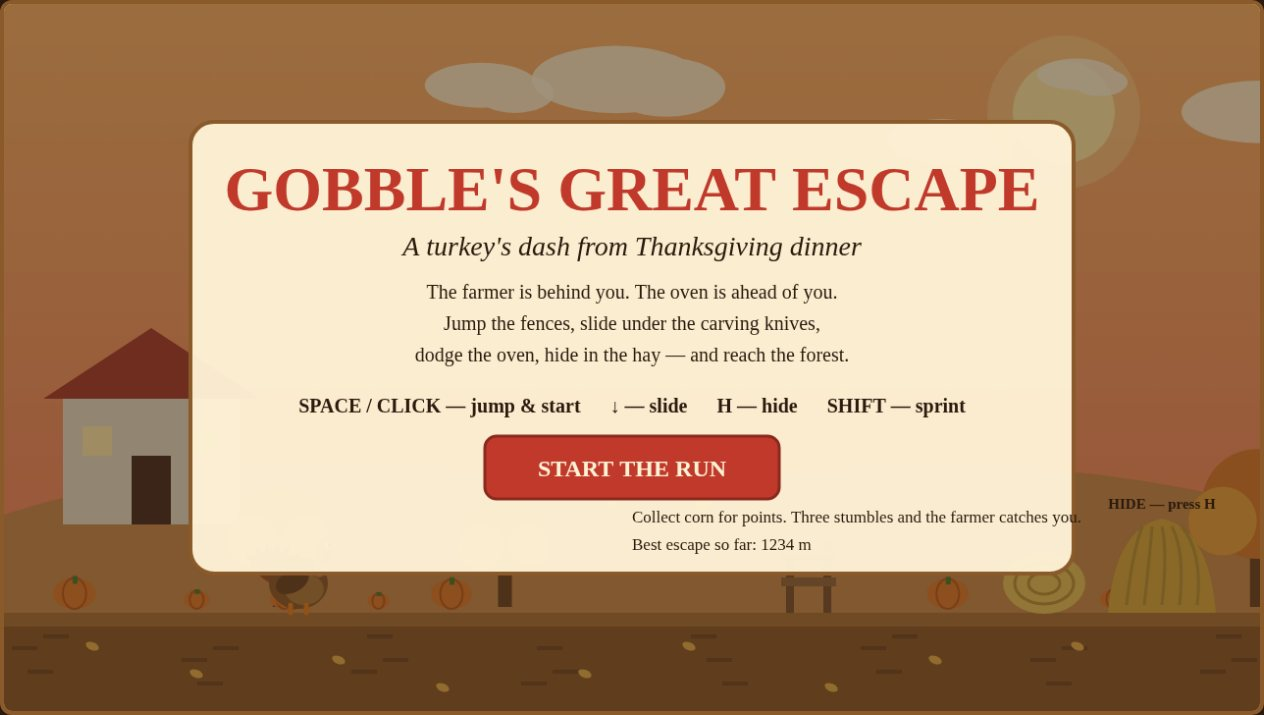
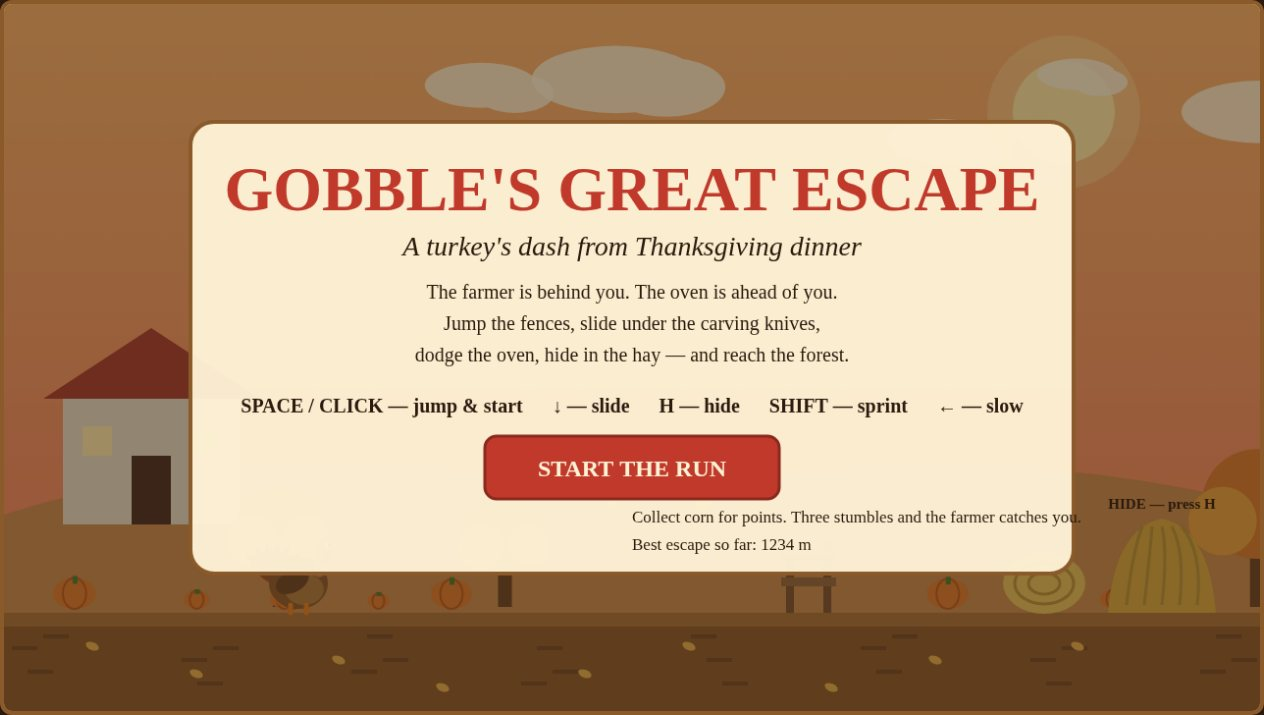
Balance the chase: fair knife landings, hanging-blade slide, slow-walk, HUD contrast

Changed region(s): [[0.1851, 0.5538, 0.8022, 0.5846]]

diff --git a/game/src/obstacles.js b/game/src/obstacles.js
@@ -2,7 +2,7 @@
 // Everything Gobble must jump, slide under, dodge or eat, spawned ahead of
 // him by distance and drawn in the world as it scrolls past.
 
-import { GROUND_Y, PALETTE, CORN_POINTS, GOLDEN_CORN_POINTS } from './config.js';
+import { GROUND_Y, PALETTE, TURKEY_X, CORN_POINTS, GOLDEN_CORN_POINTS } from './config.js';
 import { pickFrom, rangeBetween } from './random.js';
 
 export const OBSTACLE_KIND = {
@@ -10,6 +10,7 @@ export const OBSTACLE_KIND = {
   HAY_BALE: 'hayBale',
   OVEN: 'oven',
   KNIFE: 'knife',
+  LOW_KNIFE: 'lowKnife',
   HAYSTACK: 'haystack',
   CORN: 'corn',
   GOLDEN_CORN: 'goldenCorn',
@@ -17,8 +18,8 @@ export const OBSTACLE_KIND = {
 
 const SPAWN_PLANS = {
   farmyard: ['fence', 'fence', 'hayBale', 'corn', 'corn', 'haystack', 'fence', 'corn'],
-  barn: ['hayBale', 'knife', 'fence', 'corn', 'knife', 'haystack', 'hayBale', 'corn'],
-  kitchen: ['oven', 'knife', 'oven', 'corn', 'knife', 'oven', 'hayBale', 'goldenCorn'],
+  barn: ['hayBale', 'knife', 'lowKnife', 'fence', 'corn', 'knife', 'haystack', 'hayBale', 'corn'],
+  kitchen: ['oven', 'knife', 'oven', 'lowKnife', 'corn', 'knife', 'oven', 'hayBale', 'goldenCorn'],
   forest: ['fence', 'corn', 'hayBale', 'corn', 'fence', 'goldenCorn'],
 };
 
@@ -39,11 +40,20 @@ export class ObstacleField {
     return SPAWN_PLANS[stageId] || SPAWN_PLANS.farmyard;
   }
 
-  spawnAhead(worldX, stageId, distanceM) {
+  spawnAhead(worldX, stageId, distanceM, speed) {
     const plan = this.planFor(stageId);
     const kind = pickFrom(this.rng, plan);
-    const gap = rangeBetween(this.rng, 340, 520) + (distanceM > 700 ? 40 : 0);
+    const gap = rangeBetween(this.rng, 400, 560) + (distanceM > 700 ? 100 : 0);
     this.nextSpawnX = worldX + gap;
+    if (kind === 'knife') {
+      // A falling knife takes ~1.19 s to land (0.55 s warning + the fall),
+      // travelling ~1.19 * speed leftwards in that time. Spawn it far
+      // enough out that it lands at least 300 px ahead of the turkey:
+      // a blade landing on the turkey's head would be undodgeable.
+      const fallTime = 0.55 + Math.sqrt((2 * (GROUND_Y - 80)) / 2600);
+      const minSpawnX = TURKEY_X + 300 + fallTime * (speed || 450);
+      this.nextSpawnX = Math.max(this.nextSpawnX, minSpawnX);
+    }
     this.addItem(kind, this.nextSpawnX, distanceM);
   }
 
@@ -82,12 +92,16 @@ export class ObstacleField {
       hayBale: { width: 84, height: 62 },
       oven: { width: 130, height: 110 },
       haystack: { width: 110, height: 96 },
+      // A blade on a rope, hanging at head height: slide under it.
+      // Its bottom (580) clears a sliding turkey (top 586) but not a
+      // standing one (top 558), so sliding is the way through.
+      lowKnife: { width: 40, height: 70, lift: 40 },
     };
     const size = sizes[kind];
     this.items.push({
-      kind: OBSTACLE_KIND[kind === 'hayBale' ? 'HAY_BALE' : kind === 'haystack' ? 'HAYSTACK' : kind.toUpperCase()],
+      kind: OBSTACLE_KIND[kind === 'hayBale' ? 'HAY_BALE' : kind === 'haystack' ? 'HAYSTACK' : kind === 'lowKnife' ? 'LOW_KNIFE' : kind.toUpperCase()],
       x,
-      y: GROUND_Y,
+      y: GROUND_Y - (size.lift || 0),
       width: size.width,
       height: size.height,
       taken: false,
@@ -156,10 +170,11 @@ export class ObstacleField {
     for (const item of this.items) {
       if (item.kind === OBSTACLE_KIND.CORN || item.kind === OBSTACLE_KIND.GOLDEN_CORN) continue;
       if (item.kind === OBSTACLE_KIND.HAYSTACK) continue;
-      if (item.kind === OBSTACLE_KIND.KNIFE && !item.landed) {
-        // A falling knife only hurts while it is still in the air above you.
-        if (item.y + item.height < turkey.top) continue;
-      }
+      // A falling knife never hits on the way down: it is a warning, and
+      // only the blade stuck in the ground ahead is an obstacle to jump.
+      // (A knife landing exactly on the turkey's head would be undodgeable:
+      // the turkey cannot step aside, so the fall itself must be safe.)
+      if (item.kind === OBSTACLE_KIND.KNIFE && !item.landed) continue;
       const itemLeft = item.x - item.width / 2;
       const itemRight = item.x + item.width / 2;
       const itemTop = item.kind === OBSTACLE_KIND.KNIFE ? item.y : item.y - item.height;
@@ -177,6 +192,7 @@ export class ObstacleField {
       if (item.kind === OBSTACLE_KIND.HAY_BALE) this.drawHayBale(ctx, item);
       if (item.kind === OBSTACLE_KIND.OVEN) this.drawOven(ctx, item);
       if (item.kind === OBSTACLE_KIND.KNIFE) this.drawKnife(ctx, item);
+      if (item.kind === OBSTACLE_KIND.LOW_KNIFE) this.drawLowKnife(ctx, item);
       if (item.kind === OBSTACLE_KIND.HAYSTACK) this.drawHaystack(ctx, item);
       if (item.kind === OBSTACLE_KIND.CORN) this.drawCorn(ctx, item, false);
       if (item.kind === OBSTACLE_KIND.GOLDEN_CORN) this.drawCorn(ctx, item, true);
@@ -278,6 +294,35 @@ export class ObstacleField {
     ctx.fillStyle = PALETTE.knifeHandle;
     ctx.beginPath();
     ctx.roundRect(-12, -26, 24, 28, 5);
+    ctx.fill();
+    ctx.restore();
+  }
+
+  drawLowKnife(ctx, item) {
+    // A carving knife on a rope, swaying at head height: slide under it.
+    const sway = Math.sin(item.x * 0.01) * 0.08;
+    ctx.save();
+    ctx.translate(item.x, 0);
+    ctx.rotate(sway);
+    ctx.strokeStyle = '#5d3a24';
+    ctx.lineWidth = 4;
+    ctx.beginPath();
+    ctx.moveTo(0, 0);
+    ctx.lineTo(0, item.y - item.height - 24);
+    ctx.stroke();
+    const top = item.y - item.height;
+    ctx.fillStyle = PALETTE.knifeHandle;
+    ctx.beginPath();
+    ctx.roundRect(-11, top, 22, 26, 5);
+    ctx.fill();
+    ctx.fillStyle = PALETTE.knifeBlade;
+    ctx.beginPath();
+    ctx.moveTo(-13, top + 24);
+    ctx.lineTo(13, top + 24);
+    ctx.lineTo(8, top + item.height);
+    ctx.lineTo(0, top + item.height + 12);
+    ctx.lineTo(-8, top + item.height);
+    ctx.closePath();
     ctx.fill();
     ctx.restore();
   }

diff --git a/game/src/main.js b/game/src/main.js
@@ -209,9 +209,12 @@ export class GobbleGame {
 
   updatePlaying(dt, silent) {
     const sprinting = this.input.sprintHeld && !this.turkey.hidden;
-    const targetSpeed = sprinting
-      ? SPRINT_SPEED
-      : Math.min(MAX_SPEED, BASE_SPEED + this.distanceM * 0.12);
+    const slowing = this.input.slowHeld && !this.turkey.hidden;
+    const targetSpeed = slowing
+      ? 300
+      : sprinting
+        ? SPRINT_SPEED
+        : Math.min(MAX_SPEED, BASE_SPEED + this.distanceM * 0.12);
     this.speed += (targetSpeed - this.speed) * Math.min(1, dt * 2);
     this.distanceM += (this.speed * dt) / PIXELS_PER_METER;
     this.score += this.speed * dt * 0.02;
@@ -227,7 +230,7 @@ export class GobbleGame {
     this.farmer.update(dt, this.turkey.hidden, this.speed, silent ? null : this.sounds, sprinting);
     const furthestX = this.field.items.reduce((max, item) => Math.max(max, item.x), 0);
     if (furthestX < CANVAS_WIDTH + 200) {
-      this.field.spawnAhead(Math.max(furthestX, this.turkey.x), this.stage.id, this.distanceM);
+      this.field.spawnAhead(Math.max(furthestX, this.turkey.x), this.stage.id, this.distanceM, this.speed);
     }
     this.field.update(dt, this.speed, this.turkey, silent ? null : this.sounds);
     const corn = this.field.collectCorn(this.turkey);
@@ -242,7 +245,7 @@ export class GobbleGame {
       this.field.items = this.field.items.filter((item) => item !== hit);
       this.lives -= 1;
       this.turkey.stumble();
-      this.farmer.pullCloser(70);
+      this.farmer.pullCloser(55);
       if (!silent) this.sounds.thud();
     }
     const newStage = stageAt(this.distanceM);

diff --git a/game/src/hud.js b/game/src/hud.js
@@ -60,7 +60,7 @@ export function drawHud(ctx, state) {
   ctx.fill();
   ctx.fillStyle = PALETTE.textLight;
   ctx.font = '15px Georgia, serif';
-  ctx.fillText('SPACE jump  •  ↓ slide  •  H hide in hay  •  SHIFT sprint  •  P pause  •  M mute', 36, CANVAS_HEIGHT - 21);
+  ctx.fillText('SPACE jump  •  ↓ slide  •  H hide in hay  •  SHIFT sprint  •  ← slow  •  P pause  •  M mute', 36, CANVAS_HEIGHT - 21);
   if (paused) {
     ctx.fillStyle = PALETTE.textLight;
     ctx.font = 'bold 15px Georgia, serif';
@@ -114,7 +114,7 @@ export function drawTitleScreen(ctx, bestDistance) {
   ctx.fillText('Jump the fences, slide under the carving knives,', 640, 332);
   ctx.fillText('dodge the oven, hide in the hay — and reach the forest.', 640, 364);
   ctx.font = 'bold 20px Georgia, serif';
-  ctx.fillText('SPACE / CLICK — jump & start      ↓ — slide      H — hide      SHIFT — sprint', 640, 416);
+  ctx.fillText('SPACE / CLICK — jump & start      ↓ — slide      H — hide      SHIFT — sprint      ← — slow', 640, 416);
   // Start button.
   drawButton(ctx, 490, 440, 300, 64, 'START THE RUN');
   ctx.fillStyle = '#2b1a0e';

diff --git a/game/index.html b/game/index.html
@@ -58,7 +58,7 @@
   <canvas id="game" width="1280" height="720"></canvas>
   <p class="help">
     <b>SPACE</b> jump &amp; start &nbsp;•&nbsp; <b>↓</b> slide under the carving knives &nbsp;•&nbsp;
-    <b>H</b> hide in a haystack &nbsp;•&nbsp; <b>SHIFT</b> sprint &nbsp;•&nbsp; <b>P</b> pause &nbsp;•&nbsp; <b>M</b> mute &nbsp;•&nbsp; <b>R</b> run again<br>
+    <b>H</b> hide in a haystack &nbsp;•&nbsp; <b>SHIFT</b> sprint &nbsp;•&nbsp; <b>←</b> slow down &nbsp;•&nbsp; <b>P</b> pause &nbsp;•&nbsp; <b>M</b> mute &nbsp;•&nbsp; <b>R</b> run again<br>
     Jump the fences, dodge the oven, grab the corn — and reach the Freedom Woods before the farmer catches you.
   </p>
 </div>

diff --git a/game/src/input.js b/game/src/input.js
@@ -55,6 +55,10 @@ export class InputState {
     return this.keysDown.has('ArrowDown') || this.keysDown.has('KeyS');
   }
 
+  get slowHeld() {
+    return this.keysDown.has('ArrowLeft') || this.keysDown.has('KeyA');
+  }
+
   get sprintHeld() {
     return this.keysDown.has('ShiftLeft') || this.keysDown.has('ShiftRight')
       || this.keysDown.has('ArrowRight') || this.keysDown.has('KeyD');

diff --git a/game/src/config.js b/game/src/config.js
@@ -7,7 +7,7 @@ export const GROUND_Y = 620;
 export const TURKEY_X = 300;
 
 export const GRAVITY = 2600;
-export const JUMP_VELOCITY = -980;
+export const JUMP_VELOCITY = -1050;
 export const BASE_SPEED = 430;
 export const SPRINT_SPEED = 620;
 export const MAX_SPEED = 700;

diff --git a/README.md b/README.md
@@ -16,7 +16,7 @@ Then open http://localhost:8080 in a desktop browser. Or open `game/index.html` 
 
 ## Controls
 
-- **SPACE** — jump (and start) · **↓** — slide under knives · **H** — hide in a haystack · **SHIFT** — sprint · **P** — pause · **M** — mute · **R** — run again
+- **SPACE** — jump (and start) · **↓** — slide under knives · **H** — hide in a haystack · **SHIFT** — sprint · **←** — slow down · **P** — pause · **M** — mute · **R** — run again
 
 ---
 
